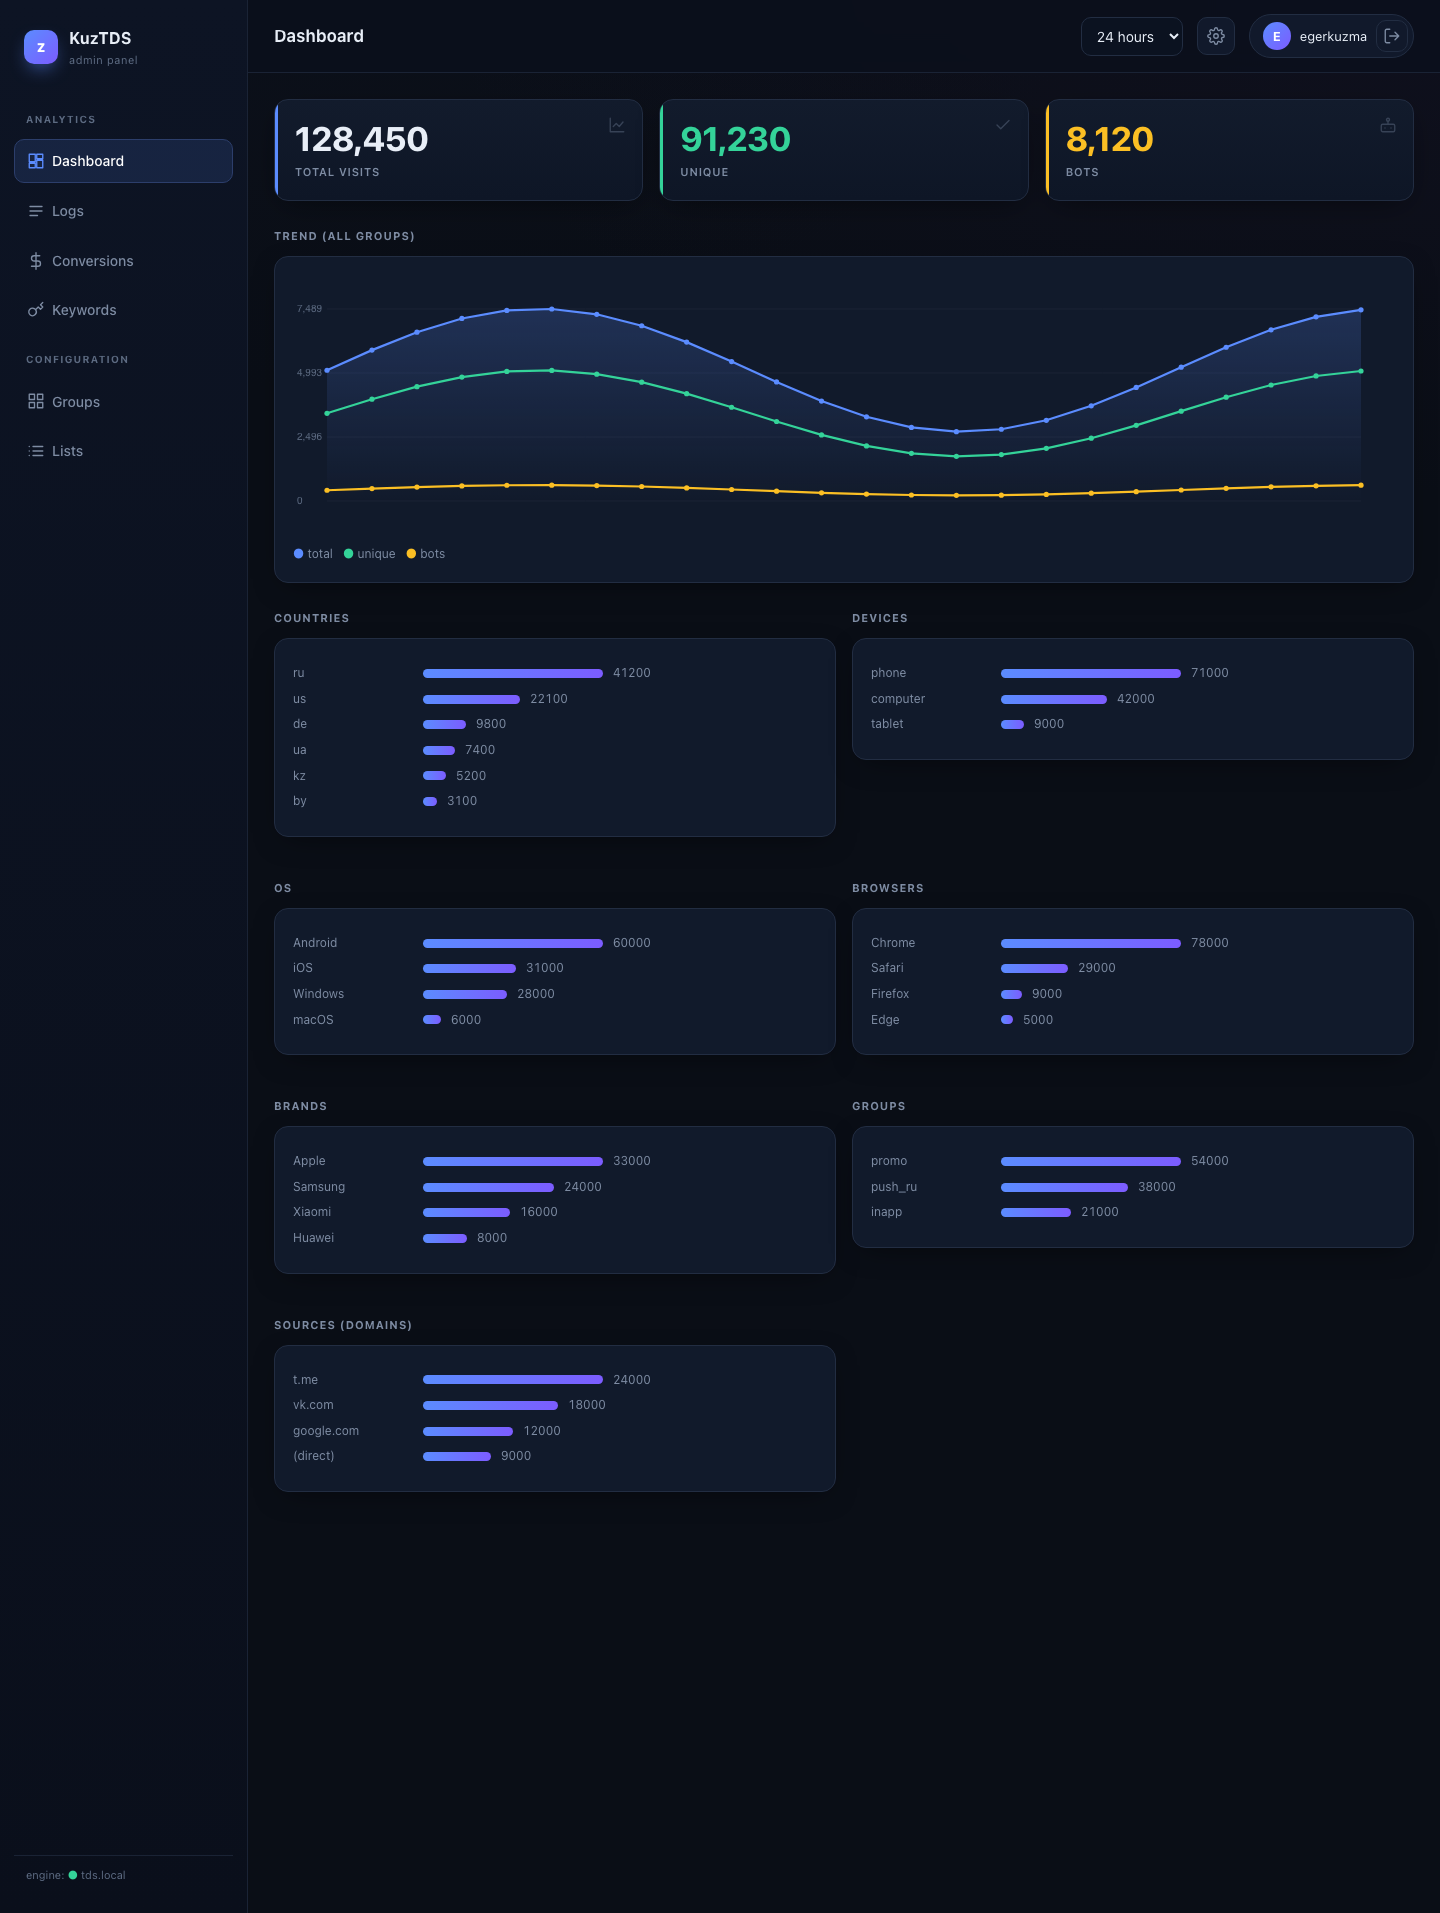
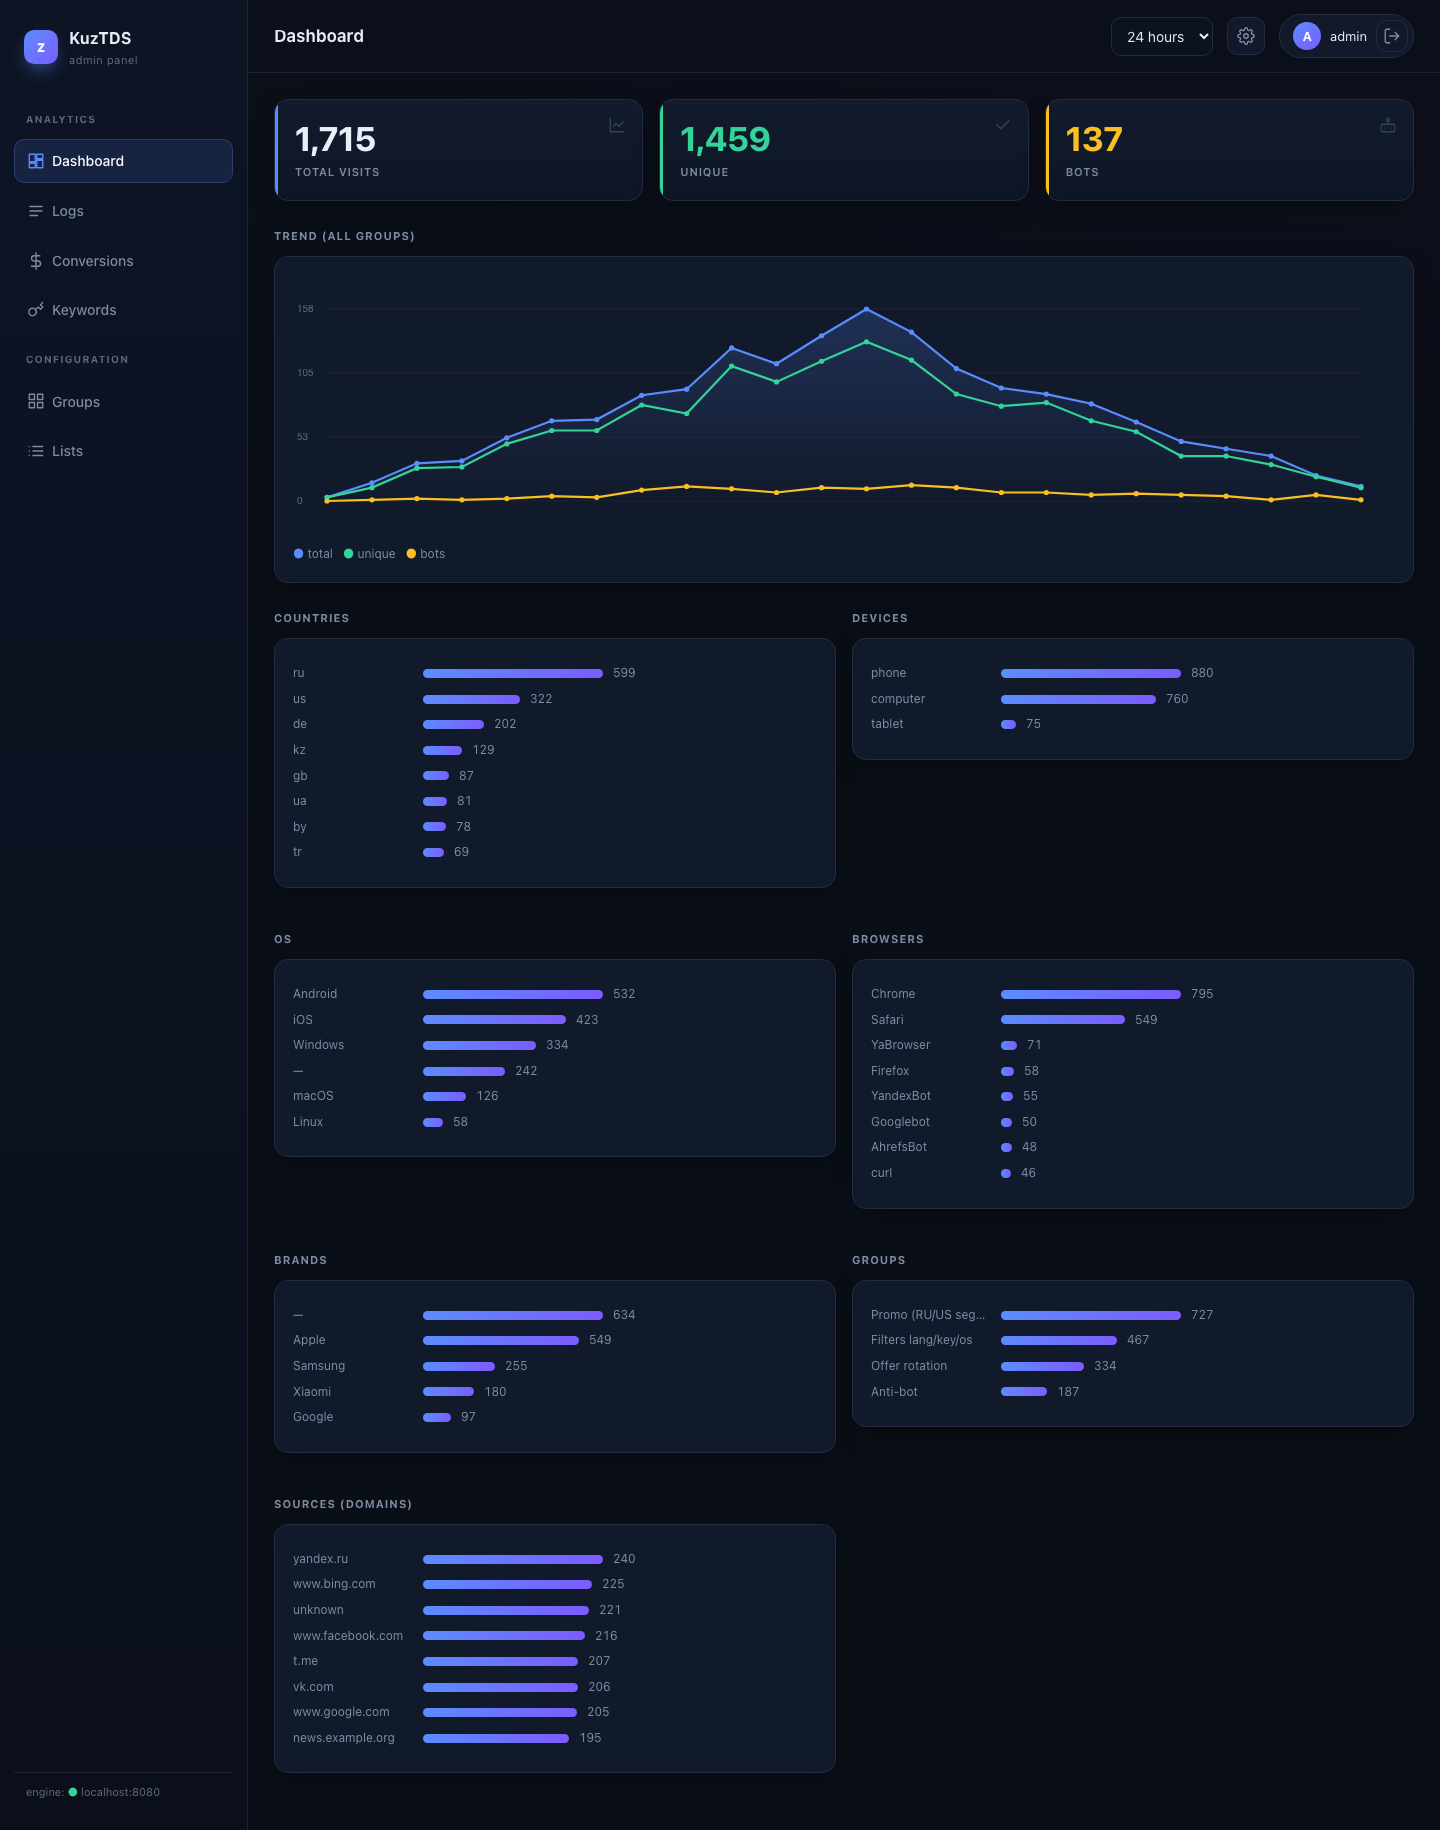
docs: refresh screenshots from a real instance with generated traffic
The images still showed the pre-rewrite editor. Retaken against a live stack —
engine + admin + ClickHouse + Redis — with ~1700 generated visits over 24h:
weighted countries, real device/OS/browser/brand user-agents, search and social
referers, WAP carrier ranges, crawler traffic (Googlebot, YandexBot, AhrefsBot,
curl) and 60 conversions fired through the real ?pb= postback endpoint. Every
field in the shots is what the pipeline actually produced; only the event
timestamps were spread across the window afterwards, so the trend chart shows a
daily curve instead of one spike.

- dashboard.png, logs.png — same 1440px convention as before.
- groups.png — now the stream editor, the thing that was broken: tree on the
  left, stream form in the pane, everything inside one 1440x900 viewport with
  no page scroll.
- group-form.png (new) — the group half of master–detail: settings, anti-flood,
  streams overview and the live engine links.

README captions updated in both languages.

diff --git a/README.ru.md b/README.ru.md
@@ -133,10 +133,16 @@ TDS стоит перед твоими офферами и лендингами 
 
 ![Логи](docs/img/logs.png)
 
-**Группы и потоки** — редактор мастер-детейл: слева сворачиваемое дерево групп,
-справа одна панель формы, живые ссылки, которые отдаёт движок:
+**Группы и потоки** — редактор мастер-детейл. Выбор потока в дереве подменяет
+правую панель на месте; обе панели скроллятся сами по себе, поэтому страница не
+двигается и форма всегда открывается там же:
 
-![Группы и потоки](docs/img/groups.png)
+![Редактор потока](docs/img/groups.png)
+
+Выбор самой группы показывает форму группы — настройки, антифлуд, обзор её
+потоков и живые ссылки, которые отдаёт движок:
+
+![Форма группы](docs/img/group-form.png)
 
 ---
 

diff --git a/README.md b/README.md
@@ -132,10 +132,16 @@ period), in-list search, country flags, CSV export, pagination:
 
 ![Logs](docs/img/logs.png)
 
-**Groups & streams** — master–detail editor: collapsible group tree on the left,
-one form pane on the right, live links the engine serves:
+**Groups & streams** — master–detail editor. Selecting a stream in the tree
+swaps the right pane in place; both panes scroll on their own, so the page never
+moves and the form always opens at the same spot:
 
-![Groups and streams](docs/img/groups.png)
+![Stream editor](docs/img/groups.png)
+
+Selecting the group itself shows the group form — settings, anti-flood, an
+overview of its streams and the live links the engine serves:
+
+![Group form](docs/img/group-form.png)
 
 ---
 
